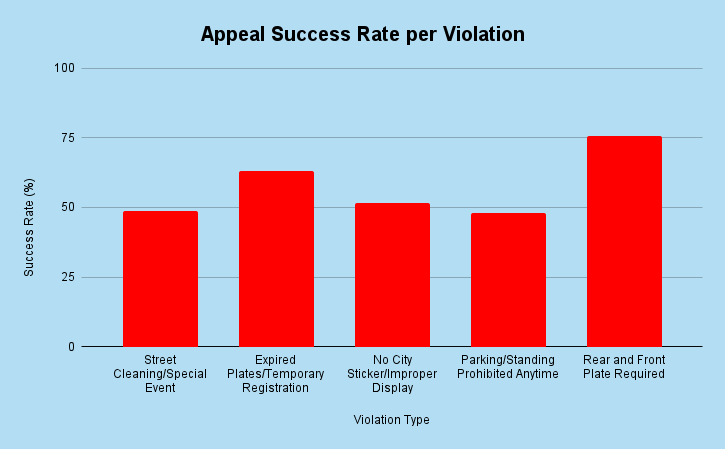
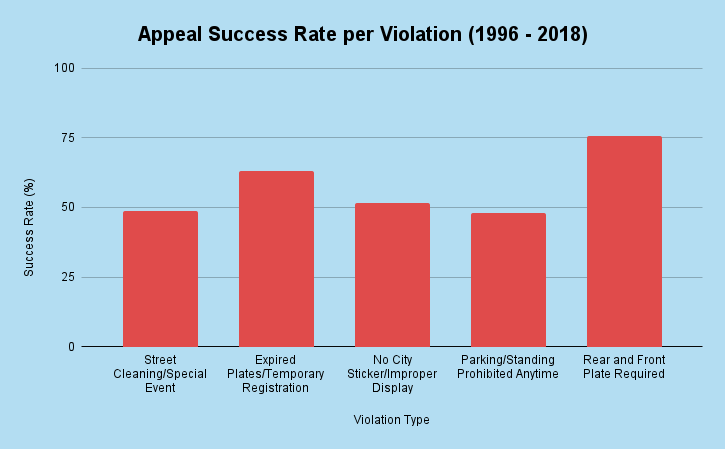
Beta CSS version, updating html and pngs

diff --git a/template.html b/template.html
@@ -9,9 +9,10 @@
     <meta name="description" content="Dismiss your parking ticket website" />
 
     <!-- Imports -->
-    <link rel="stylesheet" href="./css/templatestyle.css">
-    <!-- Google material icons -->
-    <link rel="stylesheet" href="https://fonts.googleapis.com/icon?family=Material+Icons">
+    <link rel="stylesheet" href="./css/style.css">
+    <link rel="preconnect" href="https://fonts.googleapis.com">
+    <link rel="preconnect" href="https://fonts.gstatic.com" crossorigin>
+    <link href="https://fonts.googleapis.com/css2?family=Raleway:wght@300;400;500&display=swap" rel="stylesheet">
 
     <title>Chicago Parking Tickets</title>
 
@@ -19,19 +20,21 @@
 
 <body>
     <header>
+        <h1>Take It To The Streets</h1>
+        <h2>Ward 15</h2>
         <nav id="header">
             <ul class="navbar">
-                <!-- Example of regular items -->
+                <!-- Dropdown navbar -->
                 <li class="navbar-item"><a href="./index.html">Home</a></li>
-                <li class="navbar-item"><a href="./template.html" id="active">How?</a></li>
                 <li class="navbar-item">
                     <div class="dropdown-wrapper">
-                        <a class="dropdown-button" href="data.html">Data</a>
+                        <a class="dropdown-button" href="./template.html" id="active">The Appeals Process</a>
 
-                        <!-- Example of a drop down item -->
+                        <!-- Dropdown item -->
                         <div class="dropdown-content">
                             <ul class="navbar">
-                                <li><a href="data.html#example1">Example Item 1</a></li>
+                                <li><a href="./template.html#Firststeps">Getting Started</a></li>
+                                <li><a href="./template.html#WhatToSay">What Do I Do?</a></li>
                             </ul>
                         </div>
                     </div>
@@ -39,44 +42,56 @@
             </ul>
         </nav>
     </header>
-    <div class="Firststeps">
-        <h1 class="title">How do I get started?</h1>
-        <a href="AppealTemplateWard15.pdf" target= "_blank">Print out your own template here</a>
-        <h2 class="subtitle">People in your district are successful 67% of the time that they appeal their ticket! By
-            starting the appeal process you increase your chances from 0%.</h2>
+    <!-- First Steps Section -->
+    <div id="Firststeps">
+        <h2 class="title">How do I get started?</h2>
+        <a href="AppealTemplateWard15.pdf" target= "_blank">Print out your own template here!</a>
+
+        <p class="subtitle">Did you know? People in Ward 15 are successful 67% of the time that they appeal their ticket! By
+            starting the appeals process you increase your chances from 0%.</p>
+
             <div class ="prereq">
                 <h3>What you should have with you:</h3>
                 <ul>
-                    <li>Ticket number</li>
+                    <li class='hoverable'>Ticket number</li>
                     <li>Pictures of signs, documents, drivers license</li>
                     <li>Description of surrounding, street names, and time </li>
                 </ul>
             </div>
-        <p class="reminder"> Keep in mind: </p>
+        <div>
+            <p> Keep in mind: </p>
 
-        <ul>
-            <li>You have 7 days to contest a ticket. You can submit evidence or request an in-person hearing online at
-                <a
-                    href=https://www.chicago.gov/city/en/depts/fin/provdrs/parking_and_redlightcitationadministration/svcs/view_automated_speedenforcementvideo1.html target= "_blank">
-                    City of Chicago</a>, or by mail to:
-            </li>
-            <li class="address"> City of Chicago </li>
-            <li class="address"> Department of Finance</li>
-            <li class="address">P.O. Box 88292</li>
-            <li class="address">Chicago, IL 60680-1292</li>
-            <li>If no action is taken in 7 days, a notice will be sent that lets you know you have 21 days to contest
-                the ticket in-person. After 21 days, you can no longer contest, and on the 25th day you will receive a
-                notice requesting payment along with a fine equal to the ticket. Act fast! </li>
-            <li>If you are dissatisfied with the Administrative Law Officer's decision, you can appeal before a judge
-                under Administrative Review in the Circuit Court of Cook County located at the Daley Center, 50 W.
-                Washington St., Room 602. This option must be exercised within 35 days of the Administrative Law
-                Officer's decision.</li>
-        </ul>
+            <div>
+                <p>You have 7 days to contest a ticket. You can submit evidence or request an in-person hearing online at
+                    <a
+                        href=https://www.chicago.gov/city/en/depts/fin/provdrs/parking_and_redlightcitationadministration/svcs/view_automated_speedenforcementvideo1.html target= "_blank">
+                        City of Chicago</a>, or by mail to:
+                </p>
+                
+                <address>
+                    City of Chicago <br>
+                    Department of Finance <br>
+                    P.O. Box 8829 <br>
+                    Chicago, IL 60680-129 <br>
+                </address>
+
+                <p>If no action is taken in 7 days, a notice will be sent that lets you know you have 21 days to contest
+                    the ticket in-person. After 21 days, you can no longer contest, and on the 25th day you will receive a
+                    notice requesting payment along with a fine equal to the ticket. Act fast! 
+                </p>
+                <p>If you are dissatisfied with the Administrative Law Officer's decision, you can appeal before a judge
+                    under Administrative Review in the Circuit Court of Cook County located at the Daley Center, 50 W.
+                    Washington St., Room 602. This option must be exercised within 35 days of the Administrative Law
+                    Officer's decision.
+                </p>
+            </div>
+        </div>
     </div>
-    <div class="WhatToSay">
-        <h1>What do I do?</h1>
-        <h2> How well you understand your case, and how much you prepare for it, can determine if your liable or not
-            liable.</h2>
+
+    <div id="WhatToSay">
+        <h2>What do I do?</h2>
+        <h3> How well you understand your case, and how much you prepare for it, can determine if your liable or not
+            liable.</h3>
         <ol>
             <li> <a
                     href=https://www.chicago.gov/city/en/depts/fin/supp_info/revenue/challenging_tickets/contesting_in_person.html target= "_blank">Understand
@@ -113,12 +128,12 @@
                 </ol>
             </li>
         </ol>
-        <p><b>*In Ward 15, 3 of the top 5 violations are related to some sort of signage (Special Event, Improper
+        <p><b>*In Ward 15, 3 of the top 5 violations are related to some sort of incorrect sign (Special Event, Improper
                 Display, Parking Prohibited Anytime) </b></p>
     </div>
     <div class="Examples">
-        <h1>Example Appeal</h1>
-        <h2>Here is what you may do if you got a ticket for parking during street cleaning</h2>
+        <h2>Example Appeal</h2>
+        <h3>Here is what you may do if you got a ticket for parking during street cleaning</h3>
         <p class="tab">Good Morning, Your Honor. My name is John Smith. I am here to contest ticket number 0000112233,
             which I received on December 3rd on Lincoln Ave. I found a spot on the street as the parking lot was full,
             and I made sure to follow the signs. I was ticketed for parking during “Street Cleaning”, but the spot I
@@ -127,8 +142,12 @@
             was there was torn and the timings were not visible. I ask that my ticket be dismissed. Thank you, Your
             Honor.</p>
     </div>
-    <footer>Information from the following sources:
-        https://www.chicago.gov/city/en/depts/fin/supp_info/revenue/challenging_tickets.html. Data from:ProPublica </footer>
+
+    
+    <footer>
+        Data sourced from the <a href='https://www.chicago.gov/city/en/depts/fin/supp_info/revenue/challenging_tickets.html'
+        target='_blank'>City of Chicago by ProPublica</a>
+    </footer>
 </body>
 
 </html>

diff --git a/index.html b/index.html
@@ -7,8 +7,9 @@
 
         <!-- Imports -->
         <link rel="stylesheet" href="./css/style.css">
-        <!-- Google material icons -->
-        <link rel="stylesheet" href="https://fonts.googleapis.com/icon?family=Material+Icons">
+        <link rel="preconnect" href="https://fonts.googleapis.com">
+        <link rel="preconnect" href="https://fonts.gstatic.com" crossorigin>
+        <link href="https://fonts.googleapis.com/css2?family=Raleway:wght@300;400;500&display=swap" rel="stylesheet">
 
         <title>Chicago Parking Tickets</title>
 
@@ -22,15 +23,15 @@
                 <ul class="navbar">
                     <!-- Example of regular items -->
                     <li class="navbar-item"><a href="index.html" id="active">Home</a></li>
-                    <li class="navbar-item"><a href="template.html">Template</a></li>
                     <li class="navbar-item">
                         <div class="dropdown-wrapper">
-                            <a class="dropdown-button" href="data.html">Data</a>
-
-                            <!-- Example of a drop down item -->
+                            <a class="dropdown-button" href="./template.html">The Appeals Process</a>
+    
+                            <!-- Dropdown item -->
                             <div class="dropdown-content">
                                 <ul class="navbar">
-                                    <li><a href="data.html#example1">Example Item 1</a></li>
+                                    <li><a href="./template.html#Firststeps">Getting Started</a></li>
+                                    <li><a href="./template.html#WhatToSay">What Do I Do?</a></li>
                                 </ul>
                             </div>
                         </div>
@@ -59,13 +60,27 @@
           <a href="template.html">Template</a> page.
         </li>
        </ul>
-
        <h2>Data</h2>
-       <img src="img/top5_violations.png" alt="Top 5 Violations Ward 15">
-       <p>These are the top 5 violation types in ward 15</p>
+       <div class='grid-container'>
+            <div class='img_1'>
+                <img src="img/top5_violations.png" alt="A bar graph of the top 5 driving violations in the city of Chicago from 1996 to 2018">
+                <p>These are the top 5 violation types in ward 15</p>
+            </div>
 
-       <img src="img/appeal_success_rate.png" alt="Appeal Success Rates">
-       <p>These are the appeal success rates for the top 5 violation types. Only 4% of people contested their tickets, while 58% of them were successful.</p>
-
+            <div class='img_2' >
+                <img src="img/appeal_success_rate.png" alt="Bar graph of ticket appeal success rates in the city of Chicago from 1996 to 2017">
+                <p>These are the appeal success rates for the top 5 violation types.
+                Only 4% of people contested their tickets, while 58% of them were successful.</p>
+            </div>
+        </div>
+        
+        <footer>
+            <p>
+                Data sourced from the <a href='https://www.chicago.gov/city/en/depts/fin/supp_info/revenue/challenging_tickets.html'
+                target='_blank'>City of Chicago by ProPublica</a>
+            </p>
+        </footer>
     </body>
+
+    
 </html>

diff --git a/css/style.css b/css/style.css
@@ -5,8 +5,9 @@ html {
 
 body {
     /* Default values for body, should be overwritten */
-    font-family: Cambria, Times, 'Times New Roman', serif;
-    font-size: 18px;
+    font-family: 'Raleway', verdana, Cambria, Times;
+    font-size: 16px;
+    font-weight: 450;
     margin: 0 auto;
     padding: 10px;
     max-width: 1080px;
@@ -18,22 +19,53 @@ img {
 }
 
 h1 {
-    font-family: verdana, Cambria, Times;
+    font-family: 'Raleway', verdana, Cambria, Times;
     font-size: 35px;
+    font-weight: 800;
+    line-height: 72px;
+    text-align: center; 
+    text-transform: uppercase;
+
 }
 
 h2 {
-    font-family: verdana, Cambria, Times;
+    font-family: 'Raleway', verdana, Cambria, Times;
+    font-size: 28px;
+    font-weight: 800;  
+    margin-top: 28px;
+    text-align: center; 
+    text-transform: uppercase;
 }
 
 h3 {
-    font-family: verdana, Cambria, Times;
+    font-family: 'Raleway', verdana, Cambria, Times;
+    font-size: 18px;
+    font-weight: 800; 
+    text-align: left; 
 }
 
 header {
-    background-color: lightgray;
+    background-color: #c8e6f5 ;
     text-align: center;
     padding: 5px;
+}
+
+footer {
+    font-size: 13px;
+    text-align: center;
+}
+
+address {
+    margin-left: 28px;
+    text-align: left;
+    text-transform: uppercase;
+}
+
+/* Did you know subtitle box */
+
+/* Hoverable */
+.hoverable:hover {
+    font-weight: 550;
 }
 
 /* Navbar content */
@@ -63,13 +95,13 @@ header {
 }
 
 .navbar-item a:hover {
-    background-color: gray;
+    background-color: #f85353;
     color: white;
 }
 
 #active {
     border-radius: 25px;
-    background-color: darkgray;
+    background-color: #e04b4b;
     color: white;
 }
 
@@ -91,9 +123,9 @@ header {
     border-radius: 25px;
     float: none;
     color: black;
-    background-color: lightgray;
+    background-color: #c8e6f5;
     margin-top: 10px;
-    margin-left: -44px;
+    margin-left: 21px;
     text-decoration: none;
     padding: 14px 16px;
     display: block;
@@ -101,7 +133,7 @@ header {
 }
 
 .dropdown-content a:hover {
-    background-color: gray;
+    background-color: #f85353;
 }
 
 .dropdown-wrapper:hover .dropdown-content {
@@ -115,16 +147,13 @@ header {
 }
 
 .grid-container .img_1 {
+    text-align: center;
     grid-column: 1 / 3;
     grid-row: 0;
 }
 
 .grid-container .img_2 {
-    grid-column: 3;
-    grid-row: 0;
-}
-
-.grid-container .img_3 {
+    text-align: center;
     grid-column: 1 / 3;
     grid-row: 1;
 }
